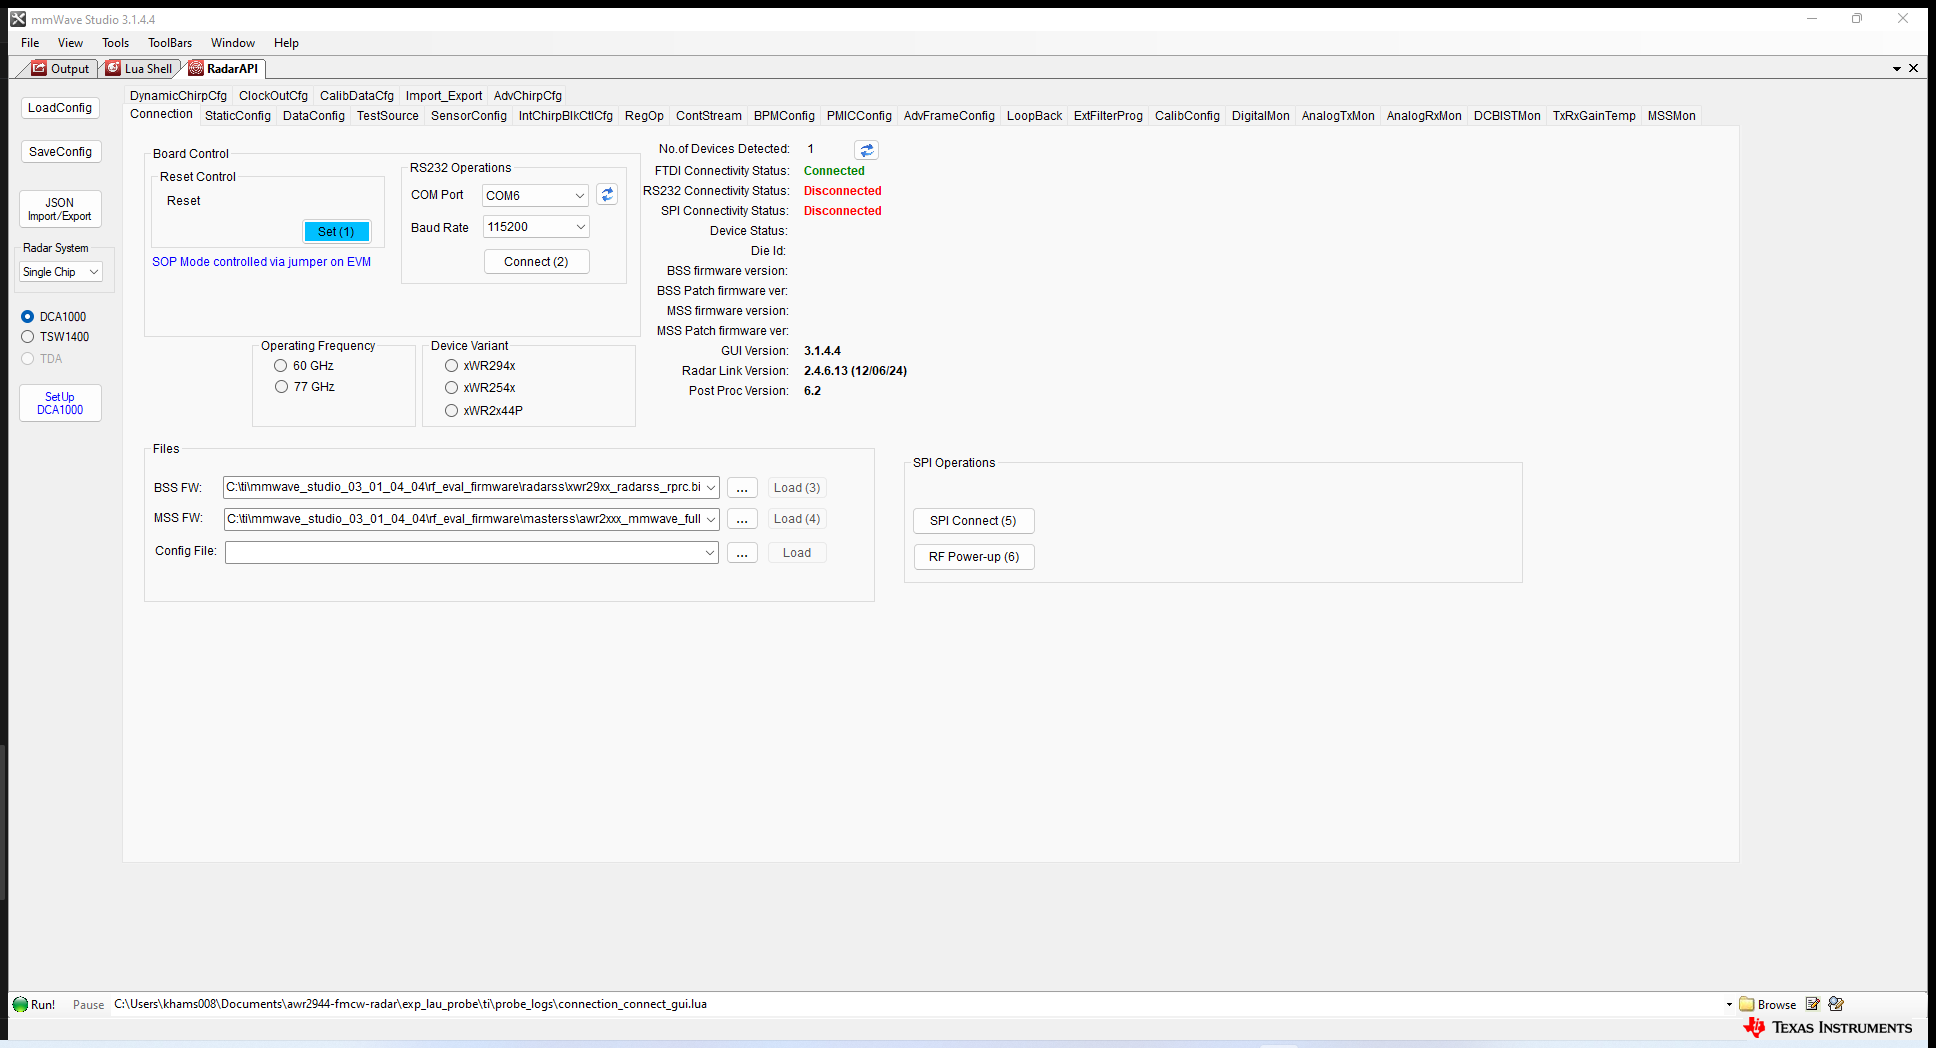
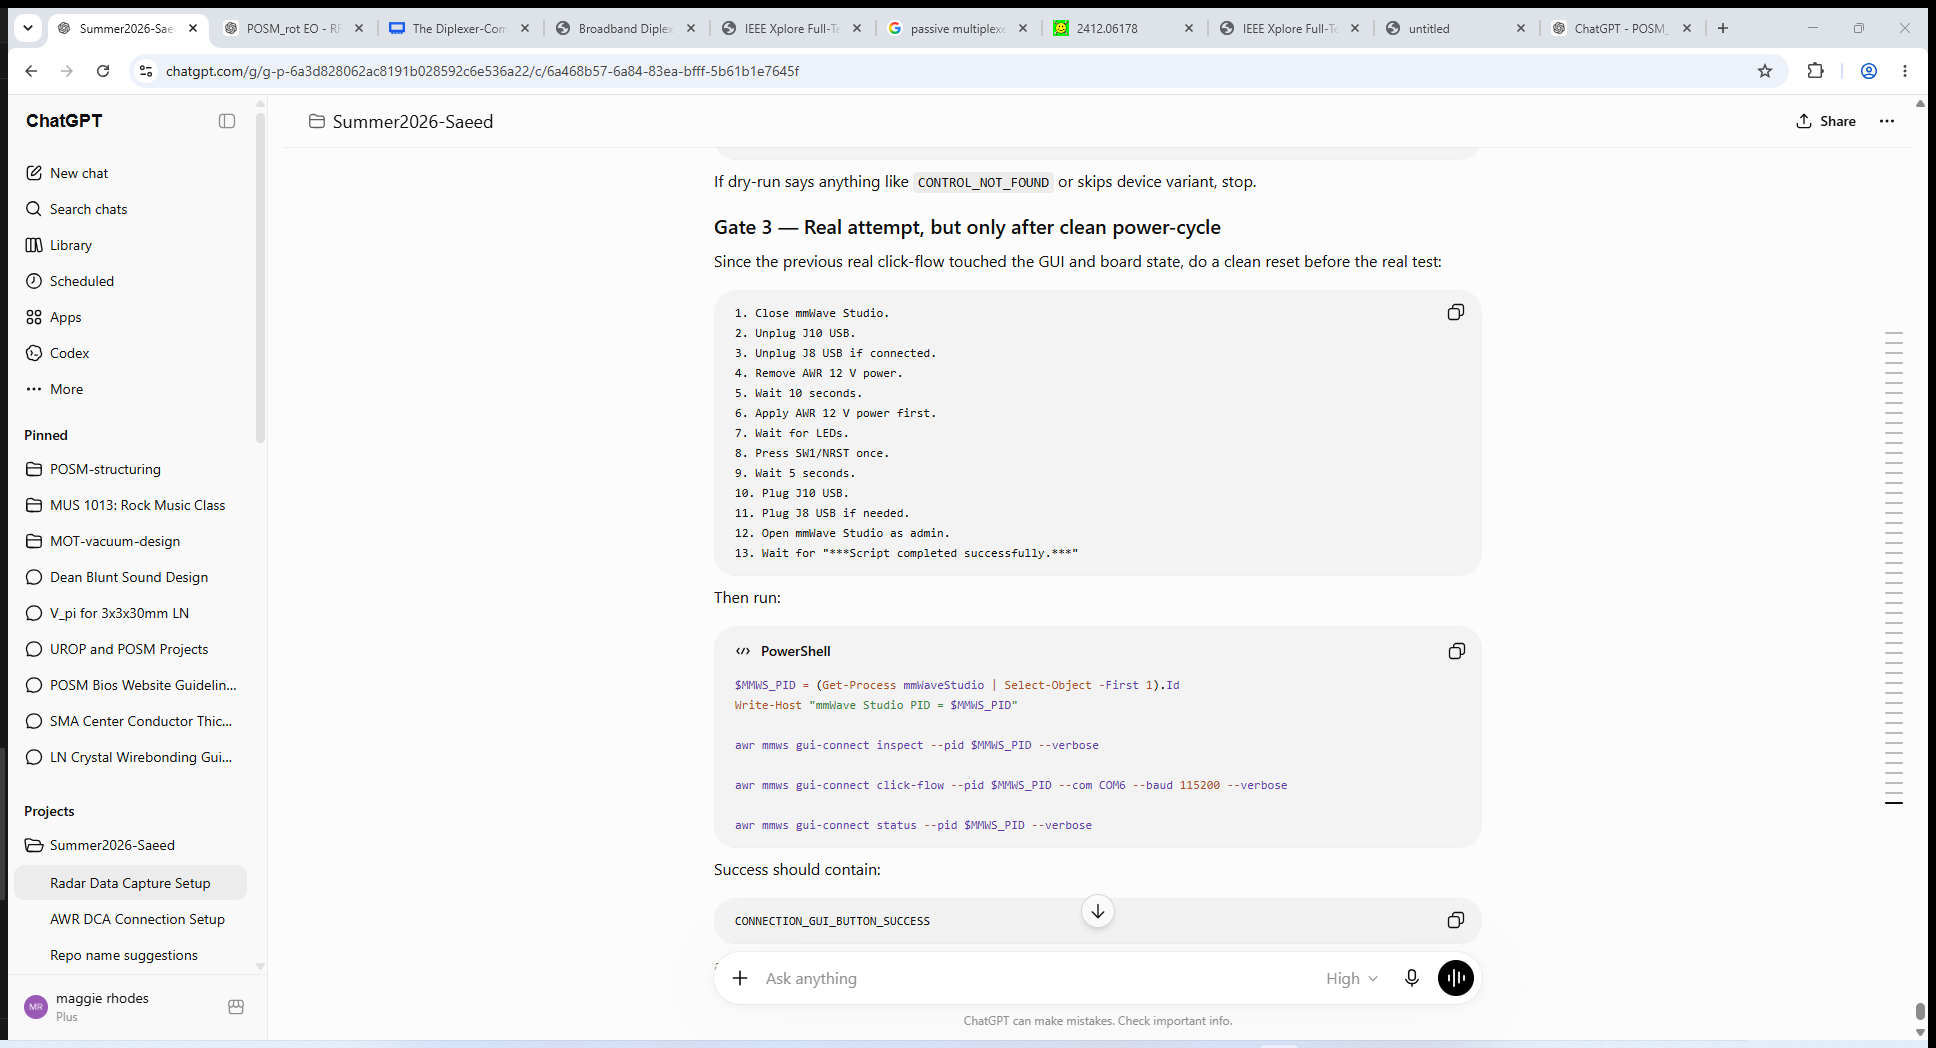
device variant tool

diff --git a/src/awr2944_dca/mmws/gui_connect.py b/src/awr2944_dca/mmws/gui_connect.py
@@ -93,7 +93,9 @@ class ControlInfo:
 class ConnectionControls:
     """References to key Connection tab controls."""
     frequency_radio: Any = None       # m_RadioBtn77GHzRadarDev
-    device_combo: Any = None
+    device_variant_group: Any = None  # m_grpDeviceVariantTypes
+    device_variant_radio: Any = None  # AWR29xx/XWR2944 radio/button inside group
+    device_variant_candidates: list[tuple[str, str]] = field(default_factory=list)  # [(auto_id, text), ...]
     set_button: Any = None            # m_btnSetSop
     com_combo: Any = None             # m_cboComPort
     baud_combo: Any = None            # m_cboBaudRate
@@ -107,18 +109,12 @@ class ConnectionControls:
     radarapi_window: Any = None       # frmAR1Main
     missing: list[str] = field(default_factory=list)
 
-    # Keep legacy alias for click_flow compatibility
-    @property
-    def frequency_combo(self) -> Any:
-        return self.frequency_radio
-
     @property
     def all_required_found(self) -> bool:
         """True if all controls needed for click-flow are present."""
         return (
             self.set_button is not None
             and self.rs232_connect_button is not None
-            # COM/baud may be pre-set, frequency/device may be pre-selected
         )
 
 
@@ -589,9 +585,39 @@ def inspect_connection_tab(
                 if ctrl is not None:
                     setattr(result, attr_name, ctrl)
 
-    # --- Also look for Device Status label (various auto_ids) ---
+    # --- Device Variant group discovery ---
+    vlog("Searching for Device Variant group (m_grpDeviceVariantTypes)")
+    dv_group = _find_by_auto_id(search_root, "m_grpDeviceVariantTypes", vlog)
+    if dv_group is None and search_root is not window:
+        dv_group = _find_by_auto_id(window, "m_grpDeviceVariantTypes", vlog)
+    if dv_group is not None:
+        result.device_variant_group = dv_group
+        vlog("Scanning Device Variant group children for AWR29xx/XWR2944...")
+        _AWR29_PATTERNS = ["awr29", "xwr29", "2944", "29xx"]
+        try:
+            for child in dv_group.descendants():
+                try:
+                    child_auto_id = child.automation_id() if hasattr(child, 'automation_id') else ""
+                    child_text = child.window_text()[:120] if child.window_text() else ""
+                except Exception:
+                    continue
+                combined = (child_auto_id + " " + child_text).lower()
+                result.device_variant_candidates.append((child_auto_id, child_text))
+                vlog(f"  Device Variant child: auto_id={child_auto_id!r} text={child_text!r}")
+                # Match AWR29xx / XWR2944 candidate
+                if result.device_variant_radio is None:
+                    if any(pat in combined for pat in _AWR29_PATTERNS):
+                        result.device_variant_radio = child
+                        vlog(f"  >>> MATCHED device variant: auto_id={child_auto_id!r} text={child_text!r}")
+        except Exception as e:
+            vlog(f"  Error scanning Device Variant group: {e}")
+    else:
+        vlog("  Device Variant group (m_grpDeviceVariantTypes) NOT FOUND")
+
+    # --- Device Status label (exclude m_lblStatus which is just a header) ---
+    # m_lblStatus contains 'FTDI Connectivity Status:' — NOT the device identity.
     for device_status_id in [
-        "m_lblDeviceStatus", "lblDeviceStatus", "m_lblStatus",
+        "m_lblDeviceStatus", "lblDeviceStatus",
         "m_txtDeviceStatus", "DeviceStatus",
     ]:
         if result.device_status_label is not None:
@@ -609,7 +635,9 @@ def inspect_connection_tab(
     if result.rs232_connect_button is None:
         result.missing.append("RS232 Connect button (m_btnConnect)")
     if result.frequency_radio is None:
-        result.missing.append("77 GHz radio button (m_RadioBtn77GHzRadarDev) (optional)")
+        result.missing.append("77 GHz radio button (m_RadioBtn77GHzRadarDev)")
+    if result.device_variant_radio is None:
+        result.missing.append("Device variant AWR29xx/XWR2944 (in m_grpDeviceVariantTypes)")
     if result.com_combo is None:
         result.missing.append("COM port selector (m_cboComPort) (optional)")
     if result.baud_combo is None:
@@ -646,14 +674,18 @@ def read_device_status(
     window,
     controls: ConnectionControls | None = None,
     verbose_log: Callable[[str], None] | None = None,
+    after_monotonic: float | None = None,
 ) -> dict[str, Any]:
-    """Read the Device Status label and parse it.
+    """Read the Device Status from Output document text.
 
-    Falls back to reading the Output document (m_ConsoleText) if the
-    Device Status label is not found.
+    Primary source: Output document (m_ConsoleText) — search for
+    'Device Status : AWR2944/GP/...' lines.
+
+    The GUI label m_lblStatus contains 'FTDI Connectivity Status:' which
+    is NOT the device identity.  Therefore we rely on Output text.
 
     Returns a dict with keys:
-      raw_text, valid, device, type, sop, es
+      raw_text, valid, device, type, sop, es, rs232_status
     """
     vlog = verbose_log or (lambda s: None)
 
@@ -661,18 +693,13 @@ def read_device_status(
         controls = inspect_connection_tab(window, verbose_log=vlog)
 
     raw = ""
-    if controls.device_status_label is not None:
-        try:
-            raw = controls.device_status_label.window_text()
-        except Exception:
-            pass
 
-    # Fallback: scan Output document for Device Status
-    if not raw and controls.output_document is not None:
-        vlog("Trying Output document (m_ConsoleText) as fallback for Device Status")
+    # Primary: Output document (m_ConsoleText)
+    if controls.output_document is not None:
+        vlog("Reading Output document (m_ConsoleText) for Device Status")
         try:
             doc_text = controls.output_document.window_text()
-            # Look for Device Status line
+            # Search from bottom for most recent Device Status line
             for line in reversed(doc_text.splitlines()):
                 if "Device Status" in line and "/" in line:
                     raw = line.strip()
@@ -681,21 +708,29 @@ def read_device_status(
         except Exception as e:
             vlog(f"Output document read failed: {e}")
 
-    if not raw:
-        # Try scanning all controls for status-like text
+    # Fallback: Device Status label (if it actually has device identity)
+    if not raw and controls.device_status_label is not None:
         try:
-            for ctrl in window.descendants():
-                try:
-                    t = ctrl.window_text()
-                    if t and ("AWR" in t or "Device Status" in t) and "/" in t:
-                        raw = t
-                        break
-                except Exception:
-                    continue
+            label_text = controls.device_status_label.window_text()
+            # Only use if it actually looks like a device status, not a header
+            if label_text and ("AWR" in label_text or "XWR" in label_text) and "/" in label_text:
+                raw = label_text
+                vlog(f"Found Device Status via label: {raw!r}")
+            else:
+                vlog(f"Device Status label text is not device identity: {label_text!r}")
+        except Exception:
+            pass
+
+    # Read RS232 status separately
+    rs232_status = ""
+    if controls.rs232_status_label is not None:
+        try:
+            rs232_status = controls.rs232_status_label.window_text()
         except Exception:
             pass
 
     vlog(f"Device Status raw text: {raw!r}")
+    vlog(f"RS232 status: {rs232_status!r}")
 
     result: dict[str, Any] = {
         "raw_text": raw,
@@ -704,6 +739,7 @@ def read_device_status(
         "type": None,
         "sop": None,
         "es": None,
+        "rs232_status": rs232_status,
     }
 
     if not raw:
@@ -812,7 +848,8 @@ def click_flow(
     controls = inspect_connection_tab(window, verbose_log=vlog)
 
     # Report findings
-    for attr in ["frequency_radio", "set_button", "refresh_ports_button",
+    for attr in ["frequency_radio", "device_variant_group", "device_variant_radio",
+                 "set_button", "refresh_ports_button",
                  "com_combo", "baud_combo", "rs232_connect_button",
                  "rs232_status_label", "spi_status_label",
                  "device_status_label", "output_document", "radarapi_window"]:
@@ -844,6 +881,18 @@ def click_flow(
                   "Check ti/probe_logs/gui_connect_controls.txt for the full dump.",
         )
 
+    # --- Check device variant is found (required for AWR2944) ---
+    if controls.device_variant_radio is None:
+        progress.log("CONTROL_NOT_FOUND", "Device variant AWR29xx/XWR2944 not found")
+        if controls.device_variant_candidates:
+            for aid, txt in controls.device_variant_candidates:
+                progress.log("device_variant_candidate", f"auto_id={aid!r} text={txt!r}")
+        return ClickFlowResult(
+            status="CONTROL_NOT_FOUND",
+            error="Device variant AWR29xx/XWR2944 not found in m_grpDeviceVariantTypes. "
+                  "Check ti/probe_logs/gui_connect_controls.txt and progress JSONL for candidates.",
+        )
+
     # --- DRY RUN ---
     if dry_run:
         actions = []
@@ -852,10 +901,13 @@ def click_flow(
         else:
             actions.append("WOULD SKIP 77 GHz selection (control not found)")
 
-        if controls.device_combo is not None:
-            actions.append("WOULD select 'xWR2944' in device combo")
-        else:
-            actions.append("WOULD SKIP device selection (control not found)")
+        try:
+            dv_text = controls.device_variant_radio.window_text()[:80]
+            dv_aid = controls.device_variant_radio.automation_id() if hasattr(controls.device_variant_radio, 'automation_id') else ''
+        except Exception:
+            dv_text = "?"
+            dv_aid = "?"
+        actions.append(f"WOULD click device variant AWR29xx/XWR2944 (auto_id={dv_aid!r} text={dv_text!r})")
 
         actions.append("WOULD click Set(1) button (m_btnSetSop)")
         actions.append("WOULD wait 5 seconds for SOP")
@@ -873,7 +925,7 @@ def click_flow(
             actions.append(f"WOULD SKIP baud rate selection (control not found, assume pre-set)")
 
         actions.append("WOULD click RS232 Connect button (m_btnConnect)")
-        actions.append("WOULD poll Device Status for AWR2944/GP/SOP:2 (up to 15s)")
+        actions.append("WOULD poll Output document for AWR2944/GP/SOP:2 (up to 15s)")
 
         for a in actions:
             progress.log("dry_run_action", a)
@@ -895,21 +947,27 @@ def click_flow(
             progress.log("after_click_77ghz_radio", f"error: {e}")
             vlog(f"77 GHz radio click failed: {e}")
     else:
-        progress.log("skip_77ghz_radio", "control not found, assume pre-set")
+        progress.log("skip_77ghz_radio", "control not found")
 
     time.sleep(0.5)
 
-    # Step 3: Select device variant (if combo found)
-    if controls.device_combo is not None:
-        progress.log("before_select_device", "xWR2944/AWR29xx")
+    # Step 3: Click device variant AWR29xx/XWR2944
+    progress.log("before_click_device_variant")
+    try:
+        dv_text = controls.device_variant_radio.window_text()[:80]
+        dv_aid = ""
         try:
-            _select_combo_item(controls.device_combo, "xWR2944", vlog, partial=True)
-            progress.log("after_select_device", "done")
-        except Exception as e:
-            progress.log("after_select_device", f"error: {e}")
-            vlog(f"Device selection failed: {e}")
-    else:
-        progress.log("skip_select_device", "control not found, assume pre-set")
+            dv_aid = controls.device_variant_radio.automation_id()
+        except Exception:
+            pass
+        controls.device_variant_radio.click_input()
+        progress.log("after_click_device_variant", f"clicked auto_id={dv_aid!r} text={dv_text!r}")
+    except Exception as e:
+        progress.log("after_click_device_variant", f"error: {e}")
+        return ClickFlowResult(
+            status="DEVICE_VARIANT_CLICK_FAILED",
+            error=f"Failed to click device variant: {e}",
+        )
 
     time.sleep(0.5)
 

diff --git a/src/awr2944_dca/cli.py b/src/awr2944_dca/cli.py
@@ -4969,6 +4969,8 @@ def mmws_gui_connect_inspect(
     console.print("\n[bold]Connection Tab Controls:[/bold]")
     _print_control_status("RadarAPI window", controls.radarapi_window)
     _print_control_status("77 GHz radio (m_RadioBtn77GHzRadarDev)", controls.frequency_radio)
+    _print_control_status("Device Variant group (m_grpDeviceVariantTypes)", controls.device_variant_group)
+    _print_control_status("Device Variant AWR29xx/XWR2944", controls.device_variant_radio)
     _print_control_status("Set(1) button (m_btnSetSop)", controls.set_button)
     _print_control_status("Refresh Ports (m_btnRefreshPorts)", controls.refresh_ports_button)
     _print_control_status("COM port (m_cboComPort)", controls.com_combo)
@@ -4977,8 +4979,20 @@ def mmws_gui_connect_inspect(
     _print_control_status("RS232 status (m_lblRS232UARTConnectivityStatus)", controls.rs232_status_label)
     _print_control_status("SPI status (m_lblSPIConnectivityStatus)", controls.spi_status_label)
     _print_control_status("Device Status label", controls.device_status_label)
-    _print_control_status("Output log", controls.output_log)
     _print_control_status("Output document (m_ConsoleText)", controls.output_document)
+
+    # Show Device Variant candidates (always, for debugging)
+    if controls.device_variant_candidates:
+        console.print(f"\n[bold]Device Variant candidates ({len(controls.device_variant_candidates)}):[/bold]")
+        for aid, txt in controls.device_variant_candidates:
+            matched = controls.device_variant_radio is not None and (
+                aid == (controls.device_variant_radio.automation_id()
+                        if hasattr(controls.device_variant_radio, 'automation_id') else "")
+            )
+            marker = " [green]<<< MATCHED[/green]" if matched else ""
+            console.print(f"  auto_id={aid!r} text={txt!r}{marker}")
+    elif controls.device_variant_group is not None:
+        console.print("\n[yellow]Device Variant group found but no children enumerated.[/yellow]")
 
     if controls.missing:
         console.print(f"\n[yellow]Missing/not found: {', '.join(controls.missing)}[/yellow]")